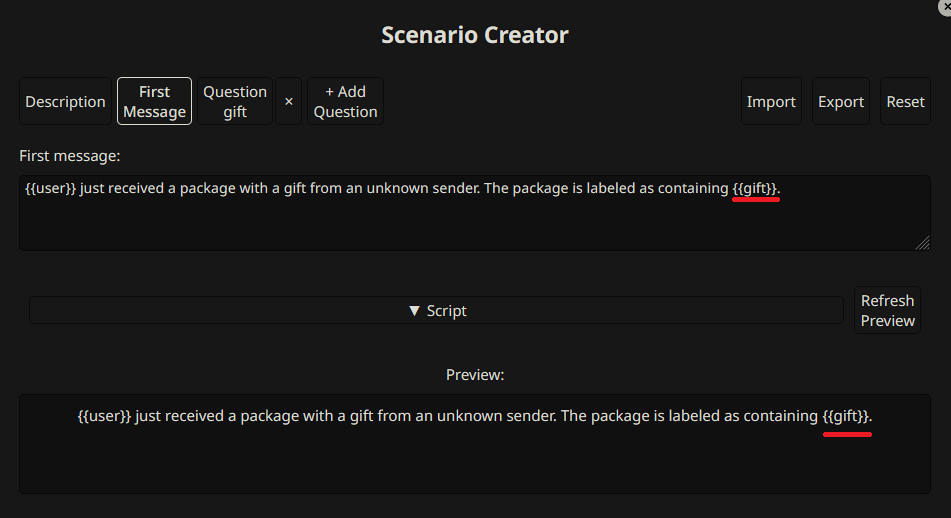
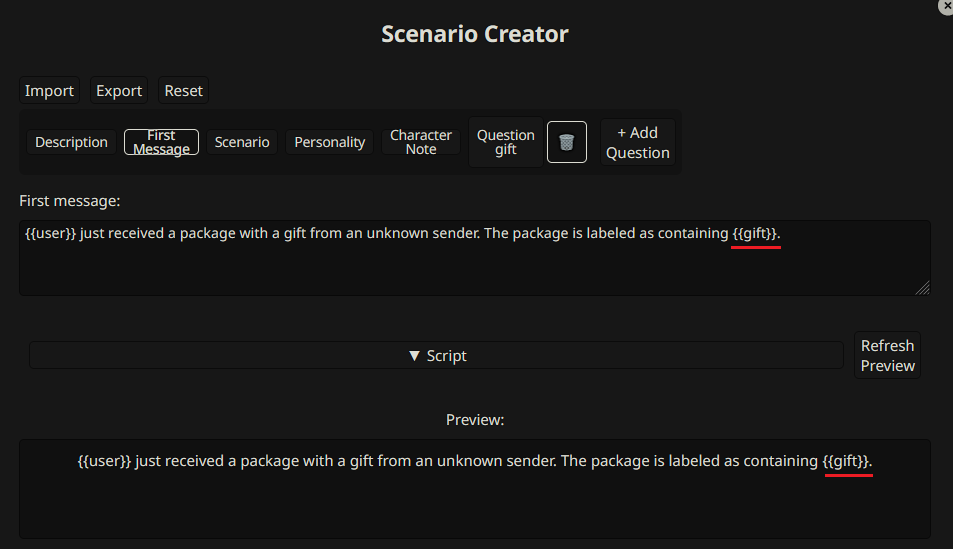
Updated readme for new tabs

diff --git a/readme.md b/readme.md
@@ -4,7 +4,7 @@ An extension that lets you create interactive scenarios with variables and basic
 
 ## What it does
 - Create scenarios with custom questions
-- Use variables in the description/first message.
+- Use variables in the description/first message/personality/scenario/character note.
 - Add simple scripts to make things dynamic. (JavaScript)
 - Import/export scenarios as JSON
 
@@ -84,11 +84,6 @@ You also received a card with the following message: Happy birthday! Enjoy your 
     * If question type is _text_, `variables.gift`
     * If the question type is _dropdown_, `variables.gift.value` and `variables.gift.label`. When creating the card, `variables.gift.label` is used.
     * If question type is _checkbox_, `variables.gift`. (boolean)
-
-## Exporting Details
-* Exported JSON data is _almost_ same as SillyTavern structure. So if you export it, fields like personality/creator in _Advanced Definitions_ also going to be exported.
-* You can use variables in personality and summary. But there is no scripting support for those inputs.
-
 
 
 ## FAQ:
